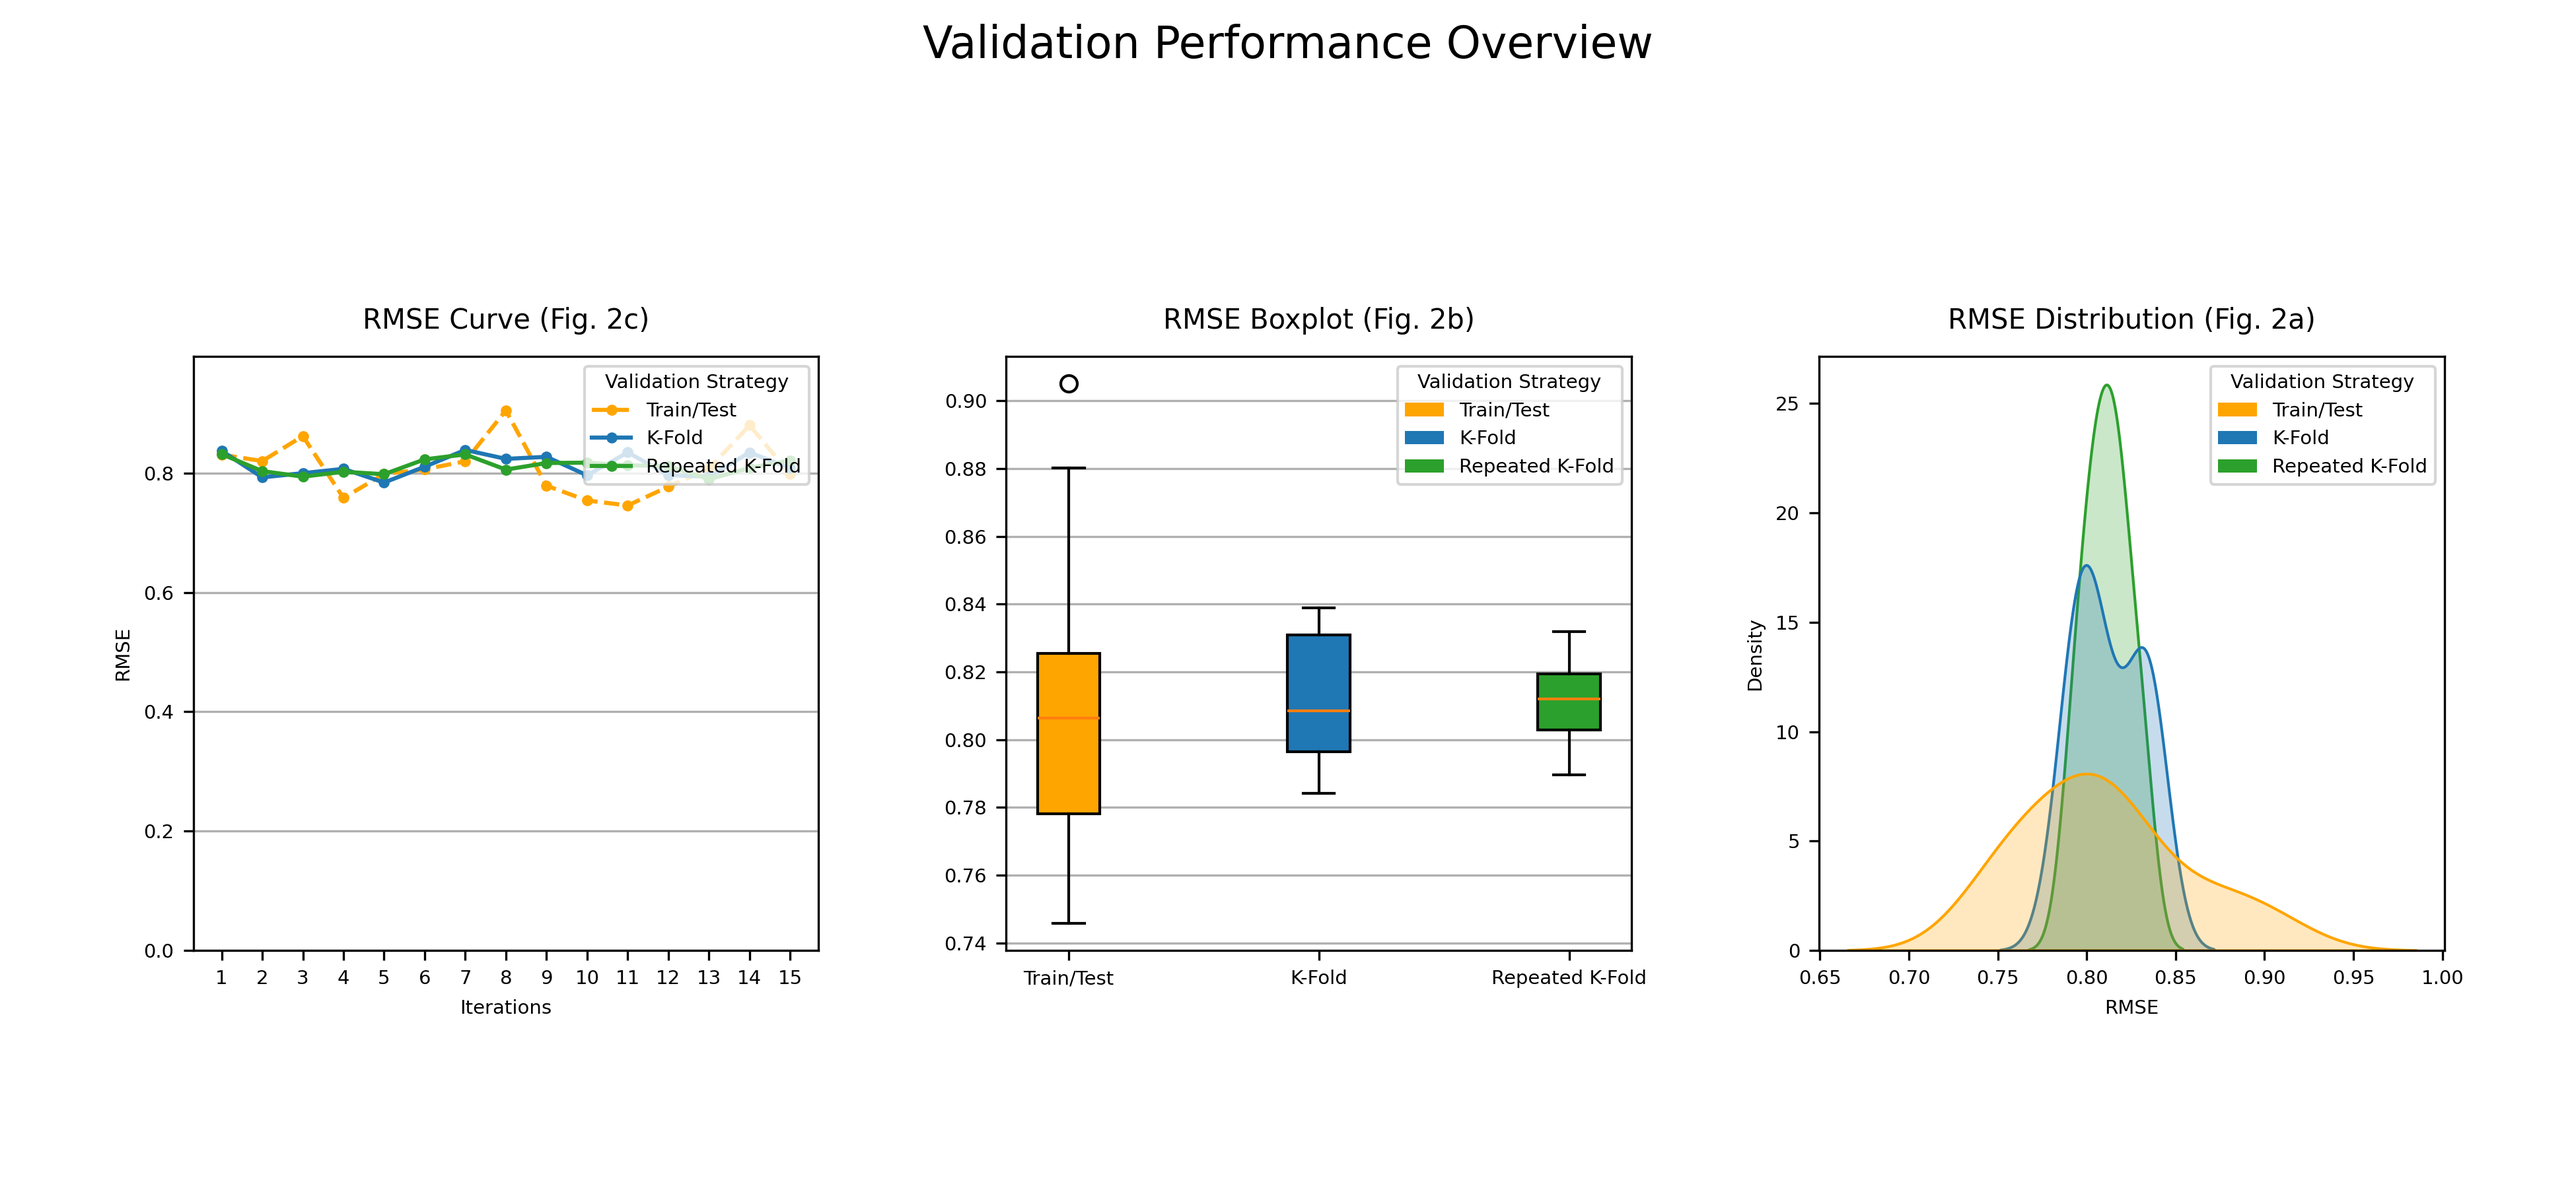
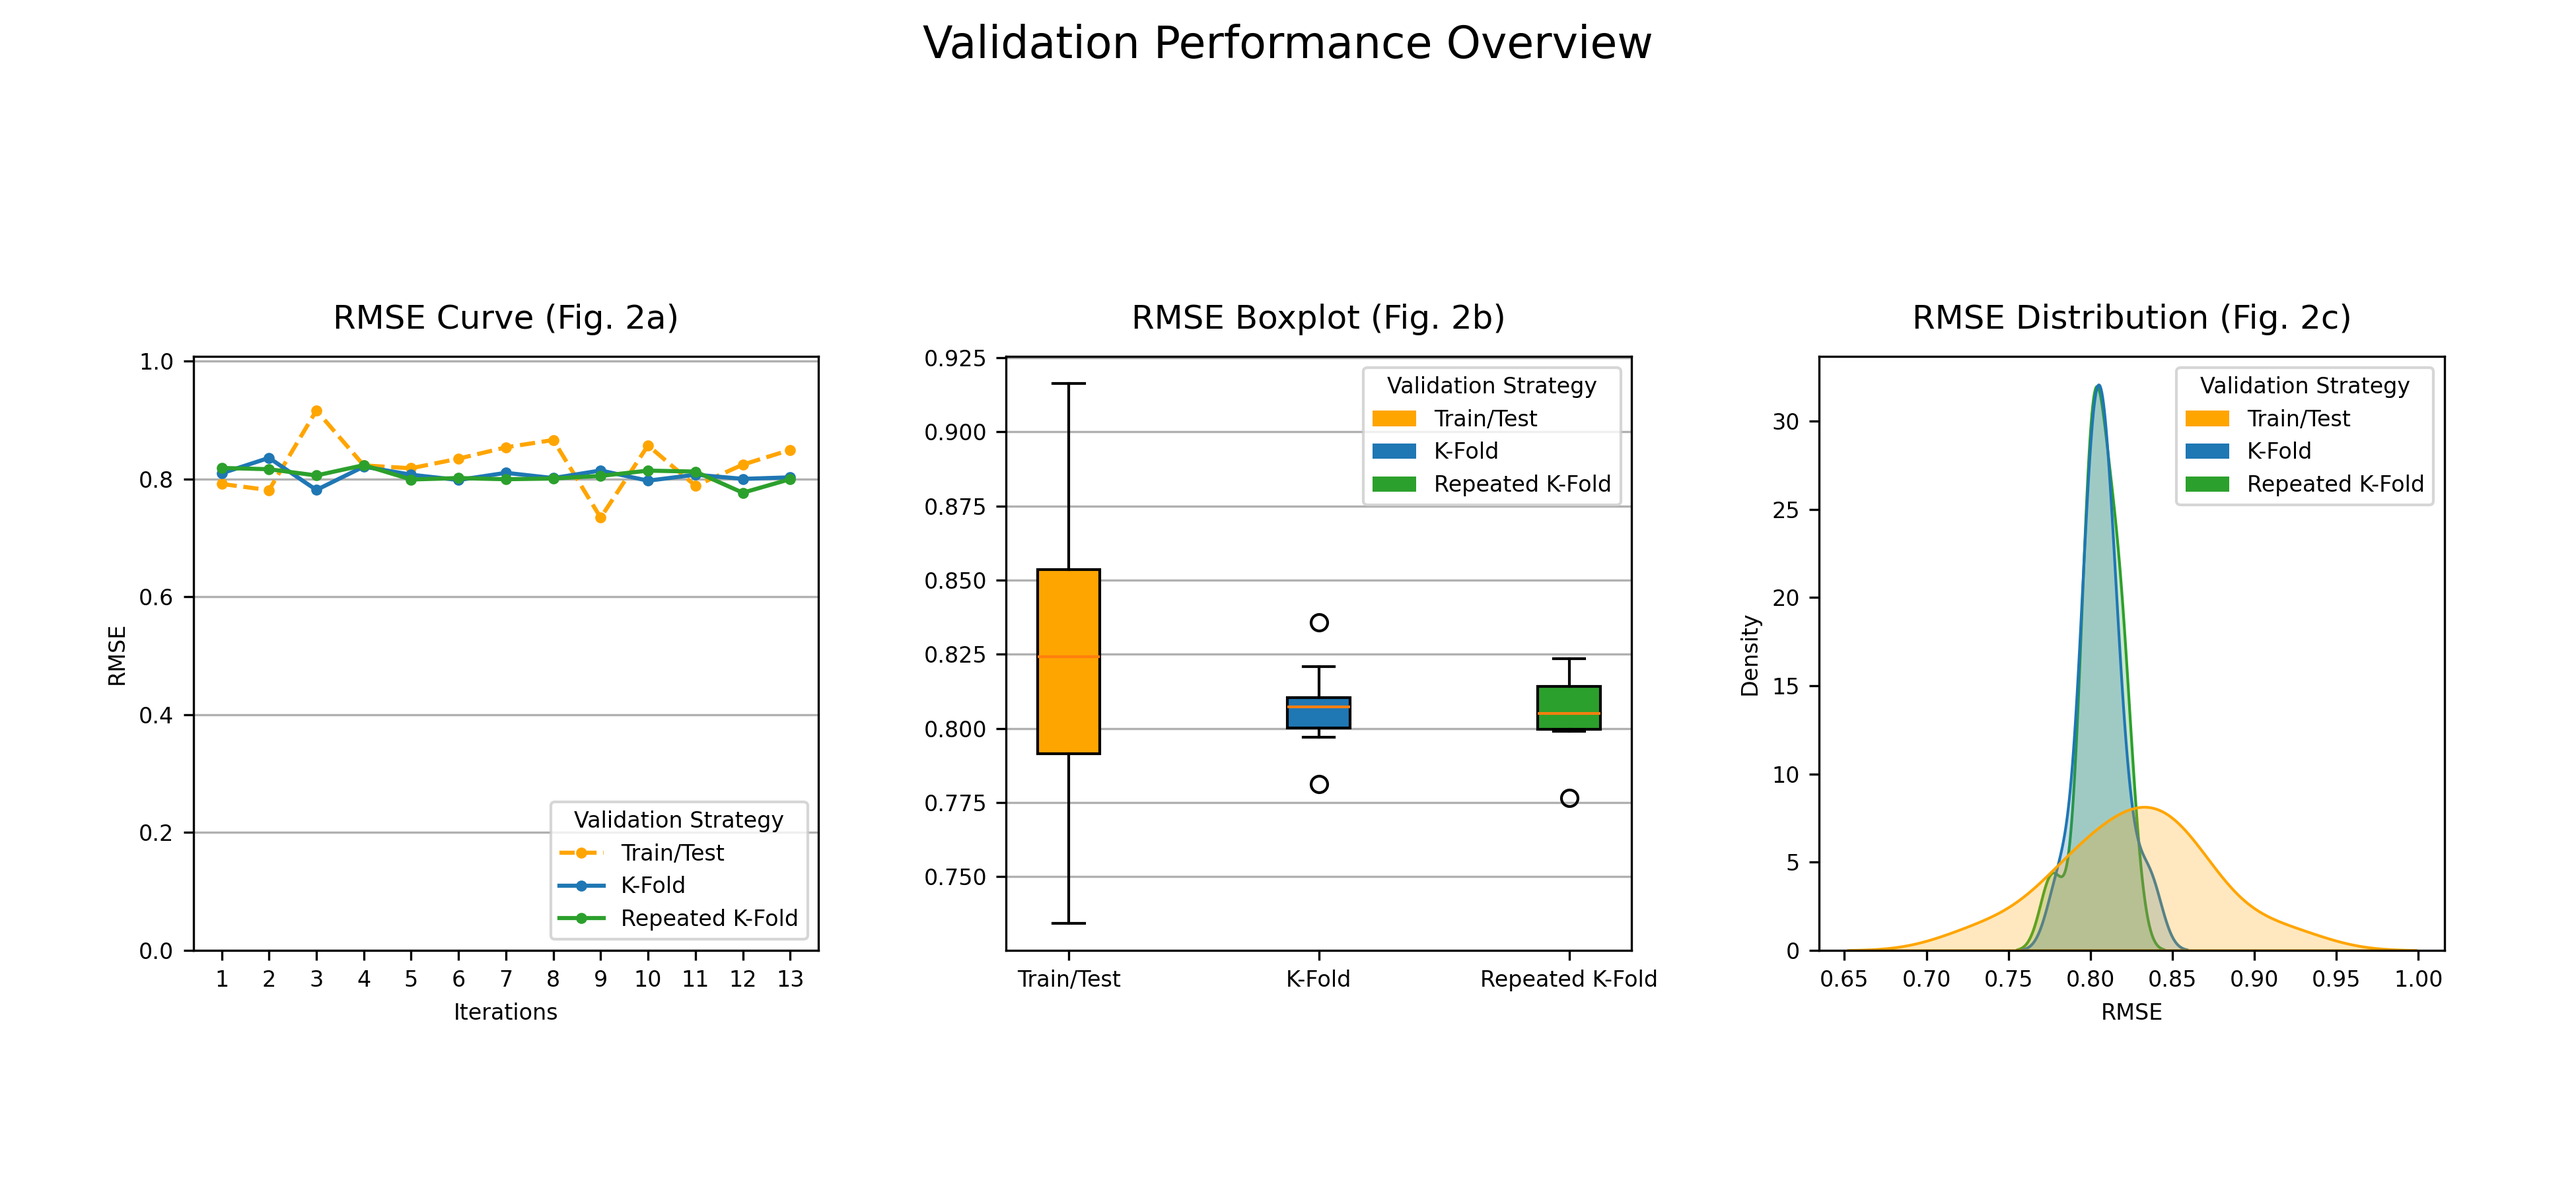
Upload src and results folders

diff --git a/src/utils/val.py b/src/utils/val.py
@@ -106,9 +106,9 @@ def plot_results(results: Dict[str, Dict[str, List[float]]]) -> None:
     val_summary(results).to_csv("../results/eval_val.csv", index=False)
 
     fig, axes = plt.subplots(1, 3, figsize=(13, 6))
-    rmse_curve(results, colors=colors, ax=axes[0], title="RMSE Curve (Fig. 2c)", legend_title="Validation Strategy")
+    rmse_curve(results, colors=colors, ax=axes[0], title="RMSE Curve (Fig. 2a)", legend_title="Validation Strategy")
     boxplot_rmse(box_data, spacing=2, colors=colors, legend_title="Validation Strategy", labels=labels, ax=axes[1], title="RMSE Boxplot (Fig. 2b)")
-    kdeplot(rmse_df, hue="Validation", colors=colors, x='RMSE', ax=axes[2], title="RMSE Distribution (Fig. 2a)", legend_label="Validation Strategy")
+    kdeplot(rmse_df, hue="Validation", colors=colors, x='RMSE', ax=axes[2], title="RMSE Distribution (Fig. 2c)", legend_label="Validation Strategy")
 
     fig.suptitle("Validation Performance Overview", fontsize=16)
     plt.subplots_adjust(left=0.075, bottom=0.2, right=0.949, top=0.7, wspace=0.3, hspace=0.274)

diff --git a/src/utils/plot.py b/src/utils/plot.py
@@ -7,8 +7,8 @@ from matplotlib.lines import Line2D
 from matplotlib.patches import Patch
 
 
-TITLE_FONTSIZE = 10
-FONTSIZE = 7
+TITLE_FONTSIZE = 12
+FONTSIZE = 8
 
 
 def rmse_curve(
@@ -69,7 +69,7 @@ def rmse_curve(
         title=legend_title,
         fontsize=FONTSIZE,
         title_fontsize=FONTSIZE,
-        loc='upper right'
+        loc='lower right'
     )
 
 

diff --git a/src/main_val.py b/src/main_val.py
@@ -33,7 +33,7 @@ def main() -> None:
     results: Dict[str, Dict[str, List[float]]] = {name: {"rmses": [], "runtime": []} for name in ["Train/Test", "K-Fold", "Repeated K-Fold"]}
 
     # Validation method configurations
-    k_splits, repeats, iterations = 10, 3, 15
+    k_splits, repeats, iterations = 10, 3, 13
 
     # Depth of focus
     focus_depth = "ST_50"
